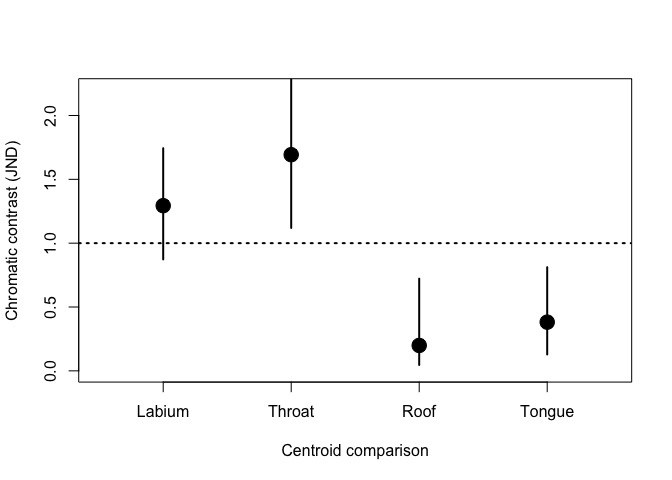
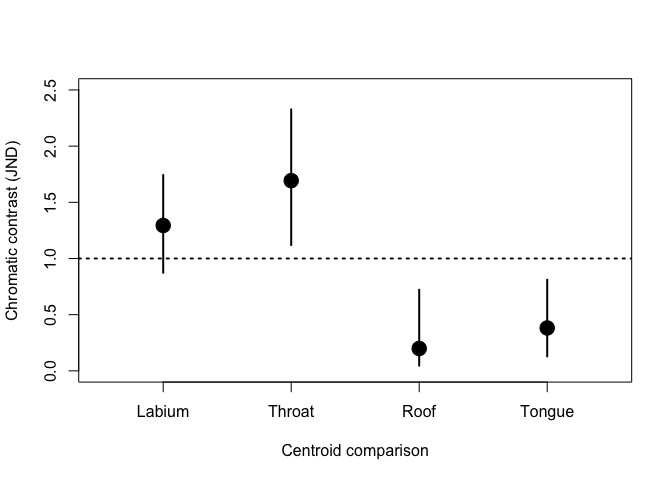
fixed figures

diff --git a/Rmd/lizardexample.md b/Rmd/lizardexample.md
@@ -96,7 +96,7 @@ Visualise
 layout(matrix(c(1, 2, 3, 4, 5, 6, 7, 8), 4, 2, byrow = TRUE))
 
 aggplot(specs[['lab']], by=gsub("[0-9].*","",names(specs[['lab']])), lwd=3, ylim=c(0,50))
-text(x=grconvertX(0.15,"npc"), y=grconvertY(0.85, "npc"), cex=3, pos=3, "Labials") 
+text(x=grconvertX(0.15,"npc"), y=grconvertY(0.8, "npc"), cex=1.5, pos=3, "Labials") 
 
 scatterplot3d(spaces[['lab']][,c('x','y','z')],  
       bg=as.character(factor(gsub("[0-9].*","",names(specs[['lab']]))[-1], 
@@ -106,7 +106,7 @@ scatterplot3d(spaces[['lab']][,c('x','y','z')],
 
 
 aggplot(specs[['throat']], by=gsub("[0-9].*","",names(specs[['throat']])), lwd=3, ylim=c(0,50))
-text(x=grconvertX(0.15,"npc"), y=grconvertY(0.85, "npc"), cex=3, pos=3, "Throat")
+text(x=grconvertX(0.15,"npc"), y=grconvertY(0.8, "npc"), cex=1.5, pos=3, "Throat")
 
 scatterplot3d(spaces[['throat']][,c('x','y','z')],  
       bg=as.character(factor(gsub("[0-9].*","",names(specs[['throat']]))[-1],
@@ -116,7 +116,7 @@ scatterplot3d(spaces[['throat']][,c('x','y','z')],
 
 
 aggplot(specs[['roof']], by=gsub("[0-9].*","",names(specs[['roof']])), lwd=3, ylim=c(0,50))
-text(x=grconvertX(0.15,"npc"), y=grconvertY(0.85, "npc"), cex=3, pos=3, "Roof")
+text(x=grconvertX(0.15,"npc"), y=grconvertY(0.8, "npc"), cex=1.5, pos=3, "Roof")
 
 scatterplot3d(spaces[['roof']][,c('x','y','z')],  
       bg=as.character(factor(gsub("[0-9].*","",names(specs[['roof']]))[-1],
@@ -126,7 +126,7 @@ scatterplot3d(spaces[['roof']][,c('x','y','z')],
 
 
 aggplot(specs[['tongue']], by=gsub("[0-9].*","",names(specs[['tongue']])), lwd=3, ylim=c(0,50))
-text(x=grconvertX(0.15,"npc"), y=grconvertY(0.85, "npc"), cex=3, pos=3, "Tongue")
+text(x=grconvertX(0.15,"npc"), y=grconvertY(0.8, "npc"), cex=1.5, pos=3, "Tongue")
 
 scatterplot3d(spaces[['tongue']][,c('x','y','z')],  
       bg=as.character(factor(gsub("[0-9].*","",names(specs[['tongue']]))[-1],
@@ -429,7 +429,7 @@ bootres
     ## Tongue   0.3815314 0.12808035 0.8118222
 
 ``` r
-plot(bootres[,1], xlim=c(0.5, 4.5), ylim=c(0, 2.2), pch=21, bg=1, cex=2, xaxt='n', xlab='Centroid comparison', ylab='Chromatic contrast (JND)')
+plot(bootres[,1], xlim=c(0.5, 4.5), ylim=c(0, 2.5), pch=21, bg=1, cex=2, xaxt='n', xlab='Centroid comparison', ylab='Chromatic contrast (JND)')
 
 abline(h=1, lty=3, lwd=2)
 segments(1:4, bootres[,2], 1:4, bootres[,3], lwd=2)
